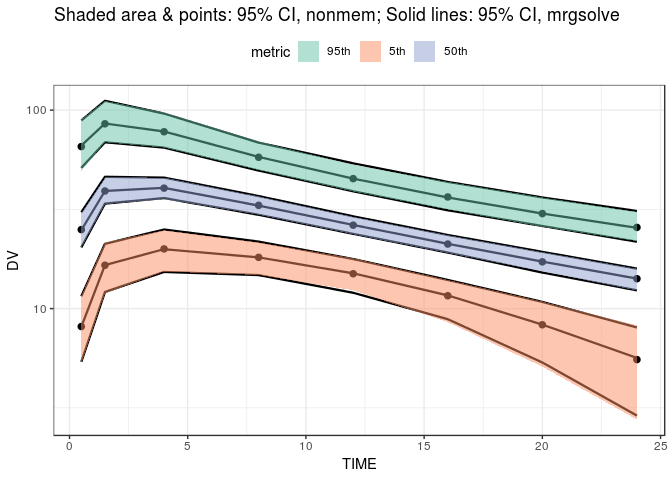
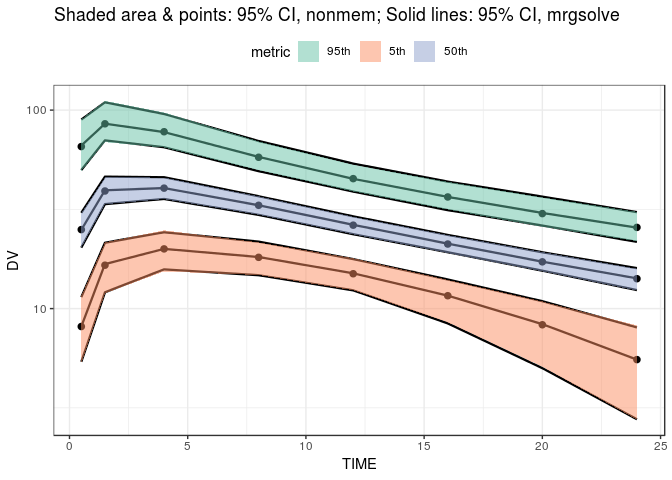
rebuild

diff --git a/nmtest5.md b/nmtest5.md
@@ -16,8 +16,6 @@ Metrum Research Group, LLC
     -   [The mrgsolve data](#the-mrgsolve-data)
 -   [Plot 1](#plot-1)
 -   [Plot 2](#plot-2)
-    -   [The NONMEM data](#the-nonmem-data-1)
-    -   [The mrgsolve data](#the-mrgsolve-data-1)
 -   [Models](#models)
     -   [NONMEM (104.ctl)](#nonmem-104.ctl)
     -   [mrgsolve](#mrgsolve)
@@ -229,10 +227,10 @@ head(out)
     .   <dbl> <dbl> <dbl> <dbl> <dbl> <int> <dbl>
     . 1     1   0     100    0     0      1   0  
     . 2     1   0     100    0     0      1   0  
-    . 3     1   0.5   100 4383. 4383.     1   0.5
-    . 4     1   1.5   100 3909. 3909.     1   1.5
-    . 5     1   4     100 2610. 2610.     1   4  
-    . 6     1   8     100 3132. 3132.     1   8
+    . 3     1   0.5   100 2965. 2965.     1   0.5
+    . 4     1   1.5   100 5388. 5388.     1   1.5
+    . 5     1   4     100 3921. 3921.     1   4  
+    . 6     1   8     100 2636. 2636.     1   8
 
 Summarize
 =========
@@ -289,9 +287,6 @@ Plot 2
 
 Look at 95% CI around the 5th/median/95th percentiles
 
-The NONMEM data
----------------
-
 ``` r
 nm_q <- 
   foo %>% 
@@ -304,9 +299,6 @@ nm_q <-
   summarise(med = median(value), lo = quantile(value,0.025), hi = quantile(value,0.975)) %>%
   filter(TIME > 0)
 ```
-
-The mrgsolve data
------------------
 
 ``` r
 mrg_q <- 
@@ -321,7 +313,7 @@ mrg_q <-
   filter(TIME > 0)
 
 mrg_q2 <- gather(mrg_q, q, value, med:hi)
-nm_q2 <- gather(nm_q, q, value, med:hi)
+nm_q2 <-  gather(nm_q,  q, value, med:hi)
 ```
 
 Comparing 95% CI around 5th/50th/95th percentiles from mrgsolve (ribbon and points) and nonmem (lines)
